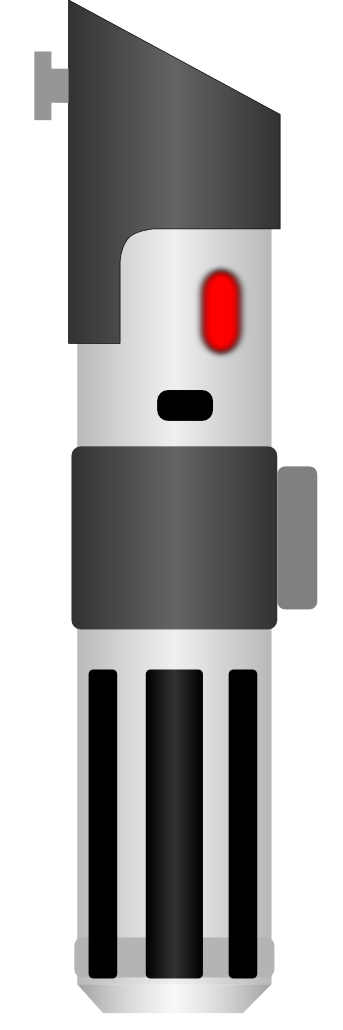
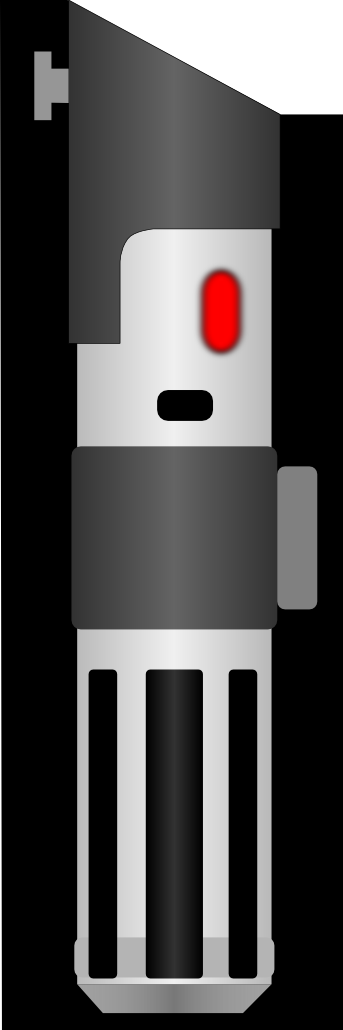
added settings of hilt and the possibility to change it :)

diff --git a/qml/lightsaber/HiltButton.qml b/qml/lightsaber/HiltButton.qml
@@ -1,0 +1,32 @@
+import QtQuick 1.1
+import com.nokia.meego 1.0
+
+Item {
+    id: hiltButton
+    property string character
+    height: 210
+    width: 90
+    Rectangle {
+        anchors.fill: parent
+        radius: 20
+        border.color: LightsaberSettings.hiltCharacter == hiltButton.character ? "white" : "gray"
+        border.width: LightsaberSettings.hiltCharacter == hiltButton.character ? 7 : 5
+        color: "transparent"
+
+        Image {
+
+            height: 180
+            width: 60
+            id: hiltButtonImage
+            anchors.centerIn: parent
+            source: "lightsaber_hilt_" + hiltButton.character + "_on.png"
+        }
+
+        MouseArea {
+            anchors.fill: parent
+            onPressed: {
+                LightsaberSettings.hiltCharacter = hiltButton.character
+            }
+        }
+    }
+}

diff --git a/qml/lightsaber/MainPage.qml b/qml/lightsaber/MainPage.qml
@@ -18,7 +18,7 @@ Page {
     Rectangle{
         id: swordRectangle
         height: 630
-        width: 124
+        width: 140
         anchors.horizontalCenter: parent.horizontalCenter
         color: "transparent"
 
@@ -53,9 +53,11 @@ Page {
         color: "transparent"
 
         Image {
+            height: 170
+            width: 50
             id: lightsaberImageOff
-            anchors.fill: parent
-            source: core.lightsaberPower ? "lightsaber_hilt_DarthVader_on.png" : "lightsaber_hilt_DarthVader_off.png"
+            anchors.centerIn: parent
+            source: core.lightsaberPower ? "lightsaber_hilt_" + LightsaberSettings.hiltCharacter + "_on.png" : "lightsaber_hilt_" + LightsaberSettings.hiltCharacter + "_off.png"
         }
     }
     ToolBar {

diff --git a/qml/lightsaber/SettingsPage.qml b/qml/lightsaber/SettingsPage.qml
@@ -131,6 +131,21 @@ Page {
             SettingsSeparator{
             }
 
+            Row{
+                id: hiltCharacterRow
+                spacing: 15
+                anchors.horizontalCenter: parent.horizontalCenter
+
+                HiltButton{
+                    character: "LukeSkywalker"
+                }
+                HiltButton{
+                    character: "DarthVader"
+                }
+            }
+            SettingsSeparator{
+            }
+
         }
     }
     ToolBar {

diff --git a/lightsabersettings.h b/lightsabersettings.h
@@ -12,6 +12,7 @@ class LightsaberSettings : public QObject
     Q_PROPERTY(bool keepDisplayOn READ isDisplayStateOn WRITE setDisplayStateOn NOTIFY keepDisplayOnChanged())
     Q_PROPERTY(bool showStatusBar READ isShowStatusBarOn WRITE setShowStatusBar NOTIFY showStatusBarChanged())
     Q_PROPERTY(QString lightsaberColor READ lightsaberColor WRITE setLightsaberColor NOTIFY lightsaberColorChanged())
+    Q_PROPERTY(QString hiltCharacter READ hiltCharacter WRITE setHiltCharacter NOTIFY hiltCharacterChanged())
     Q_PROPERTY(bool vibrationOnOff READ vibrationOnOff WRITE setVibrationOnOff NOTIFY vibrationOnOffChanged())
 
 
@@ -35,6 +36,9 @@ public:
     QString lightsaberColor() const;
     void setLightsaberColor(QString color);
 
+    QString hiltCharacter() const;
+    void setHiltCharacter(QString character);
+
     bool vibrationOnOff();
     void setVibrationOnOff(bool vibrationOnOff);
 
@@ -46,6 +50,7 @@ signals:
     void keepDisplayOnChanged();
     void showStatusBarChanged();
     void lightsaberColorChanged();
+    void hiltCharacterChanged();
     void vibrationOnOffChanged();
 
 private:

diff --git a/lightsabersettings.cpp b/lightsabersettings.cpp
@@ -70,6 +70,18 @@ void LightsaberSettings::setLightsaberColor(QString color)
     emit lightsaberColorChanged();
 }
 
+QString LightsaberSettings::hiltCharacter() const
+{
+    return m_settings->value("HiltCharacter","DarthVader").toString();
+}
+
+void LightsaberSettings::setHiltCharacter(QString character)
+{
+    m_settings->setValue("HiltCharacter",character);
+    qDebug() << "Hilt Character saved to " << character;
+    emit hiltCharacterChanged();
+}
+
 bool LightsaberSettings::vibrationOnOff()
 {
     return m_settings->value("Vibration", true).toBool();
